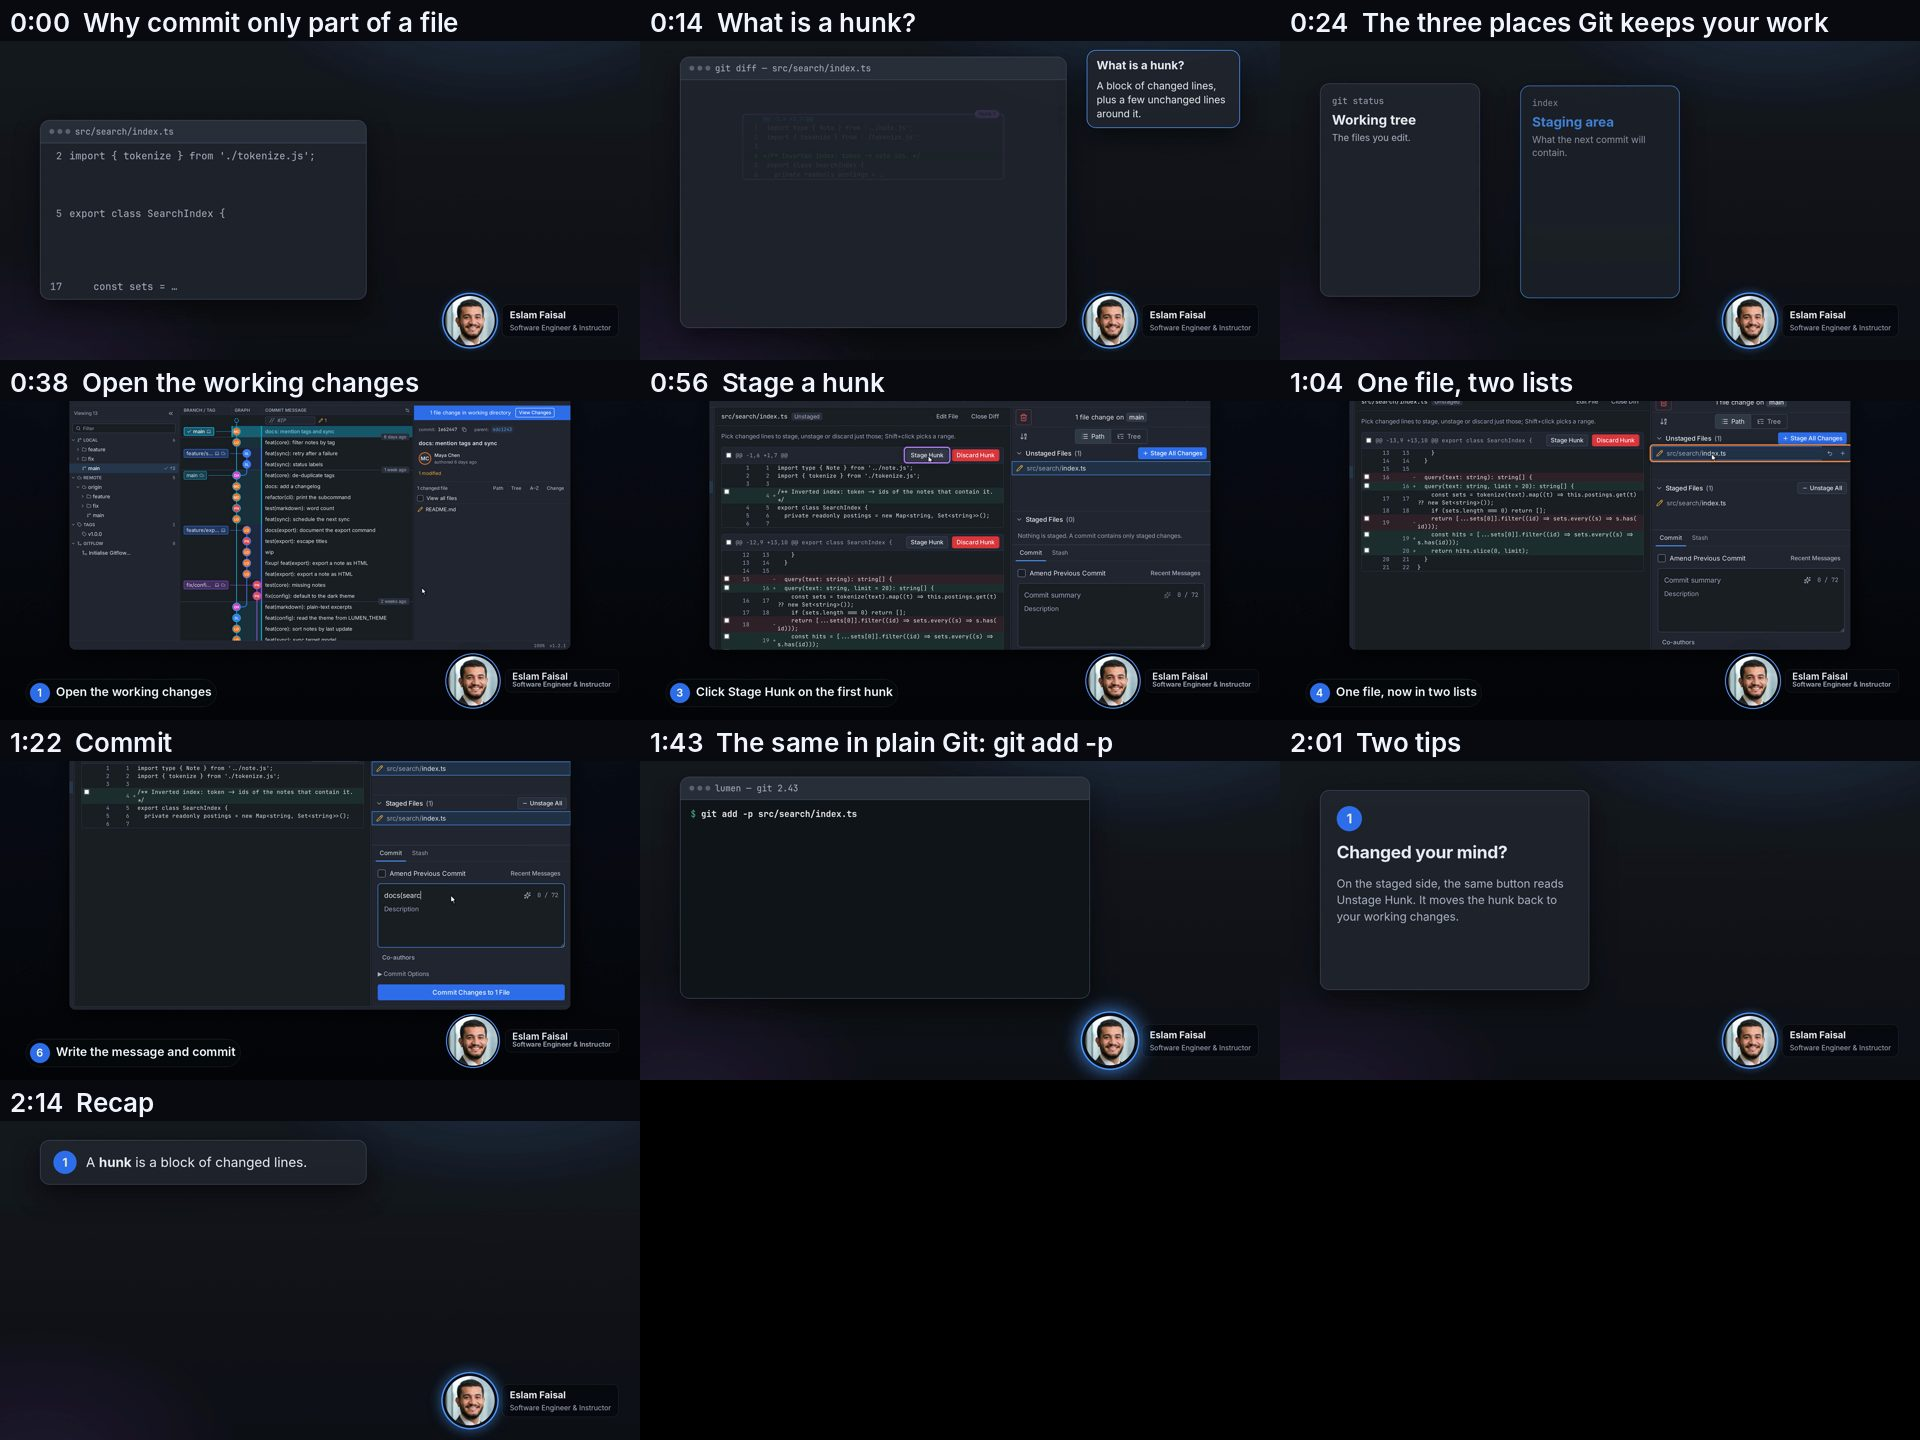
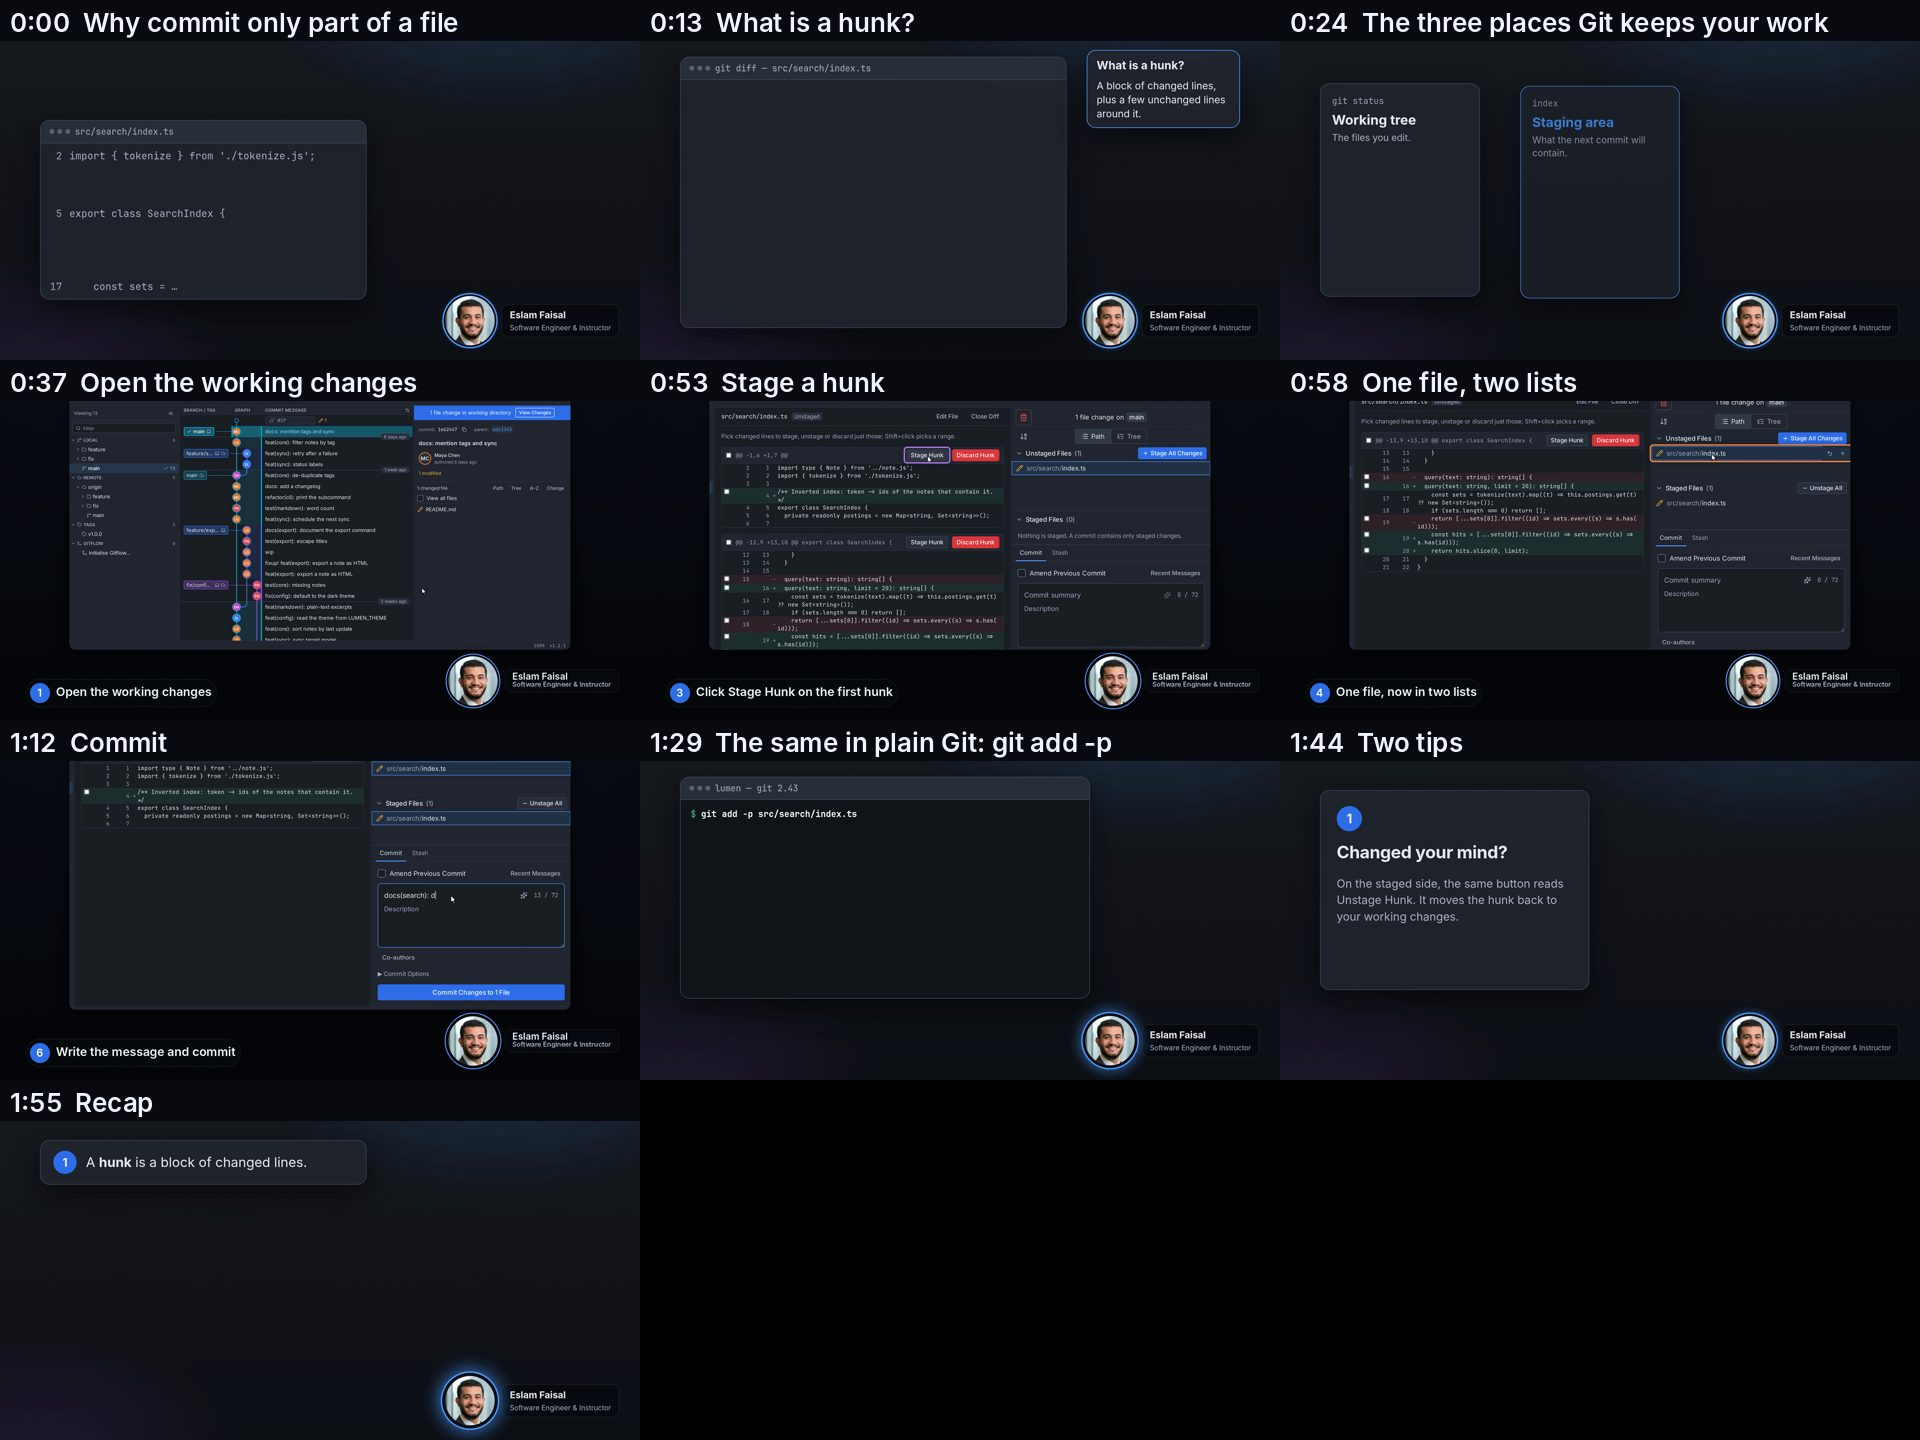
feat(course): 02-02 pilot re-rendered with the Piper voice; manifest updated
Claude-Session: https://claude.ai/code/session_01Md9TUF4t7AxsLqUrYPm4aw

diff --git a/course/assets/02-daily-workflow/02-02-stage-a-single-hunk/video/02-02-stage-a-single-hunk.verification.md b/course/assets/02-daily-workflow/02-02-stage-a-single-hunk/video/02-02-stage-a-single-hunk.verification.md
@@ -5,12 +5,12 @@ Tick each section after watching it in the finished video. The contact sheet (`.
 | Done | Time | Chapter | What the screen shows | The voice says |
 |---|---|---|---|---|
 | [ ] | 0:00 | Why commit only part of a file | scene `hook` | You fixed one bug, and in the same file you changed something else. |
-| [ ] | 0:14 | What is a hunk? | scene `hunk-what` | A hunk is a block of changed lines, plus a few unchanged lines around it. |
+| [ ] | 0:13 | What is a hunk? | scene `hunk-what` | A hunk is a block of changed lines, plus a few unchanged lines around it. |
 | [ ] | 0:24 | The three places Git keeps your work | scene `three-areas` | Git keeps your work in three places: the working tree, the staging area, and the repository. |
-| [ ] | 0:38 | Open the working changes | GitTree, start → wip-after · step: Open the working changes | Here is GitTree with a small demo project. |
-| [ ] | 0:56 | Stage a hunk | GitTree, stage-before → stage-after · step: Click Stage Hunk on the first hunk | Every hunk has its own Stage Hunk button. |
-| [ ] | 1:04 | One file, two lists | GitTree, lists-begin → lists-end · step: One file, now in two lists | Now the same file appears twice. |
-| [ ] | 1:22 | Commit | GitTree, msg-before → commit-after · step: Write the message and commit | Write a commit message, and commit. |
-| [ ] | 1:43 | The same in plain Git: git add -p | scene `git-command` | In plain Git, the same job is git add -p. |
-| [ ] | 2:01 | Two tips | scene `tips` | Two tips. If you change your mind, the same button reads Unstage Hunk on the staged side. |
-| [ ] | 2:14 | Recap | scene `recap` | To recap: a hunk is a block of changed lines, Stage Hunk moves it to the staging area, and a commit takes only what is staged. |
+| [ ] | 0:37 | Open the working changes | GitTree, start → wip-after · step: Open the working changes | Here is GitTree with a small demo project. |
+| [ ] | 0:53 | Stage a hunk | GitTree, stage-before → stage-after · step: Click Stage Hunk on the first hunk | Every hunk has its own Stage Hunk button. |
+| [ ] | 0:58 | One file, two lists | GitTree, lists-begin → lists-end · step: One file, now in two lists | Now the same file appears twice. |
+| [ ] | 1:12 | Commit | GitTree, msg-before → commit-after · step: Write the message and commit | Write a commit message, and commit. |
+| [ ] | 1:29 | The same in plain Git: git add -p | scene `git-command` | In plain Git, the same job is git add -p. |
+| [ ] | 1:44 | Two tips | scene `tips` | Two tips. If you change your mind, the same button reads Unstage Hunk on the staged side. |
+| [ ] | 1:55 | Recap | scene `recap` | To recap: a hunk is a block of changed lines, Stage Hunk moves it to the staging area, and a commit takes only what is staged. |
